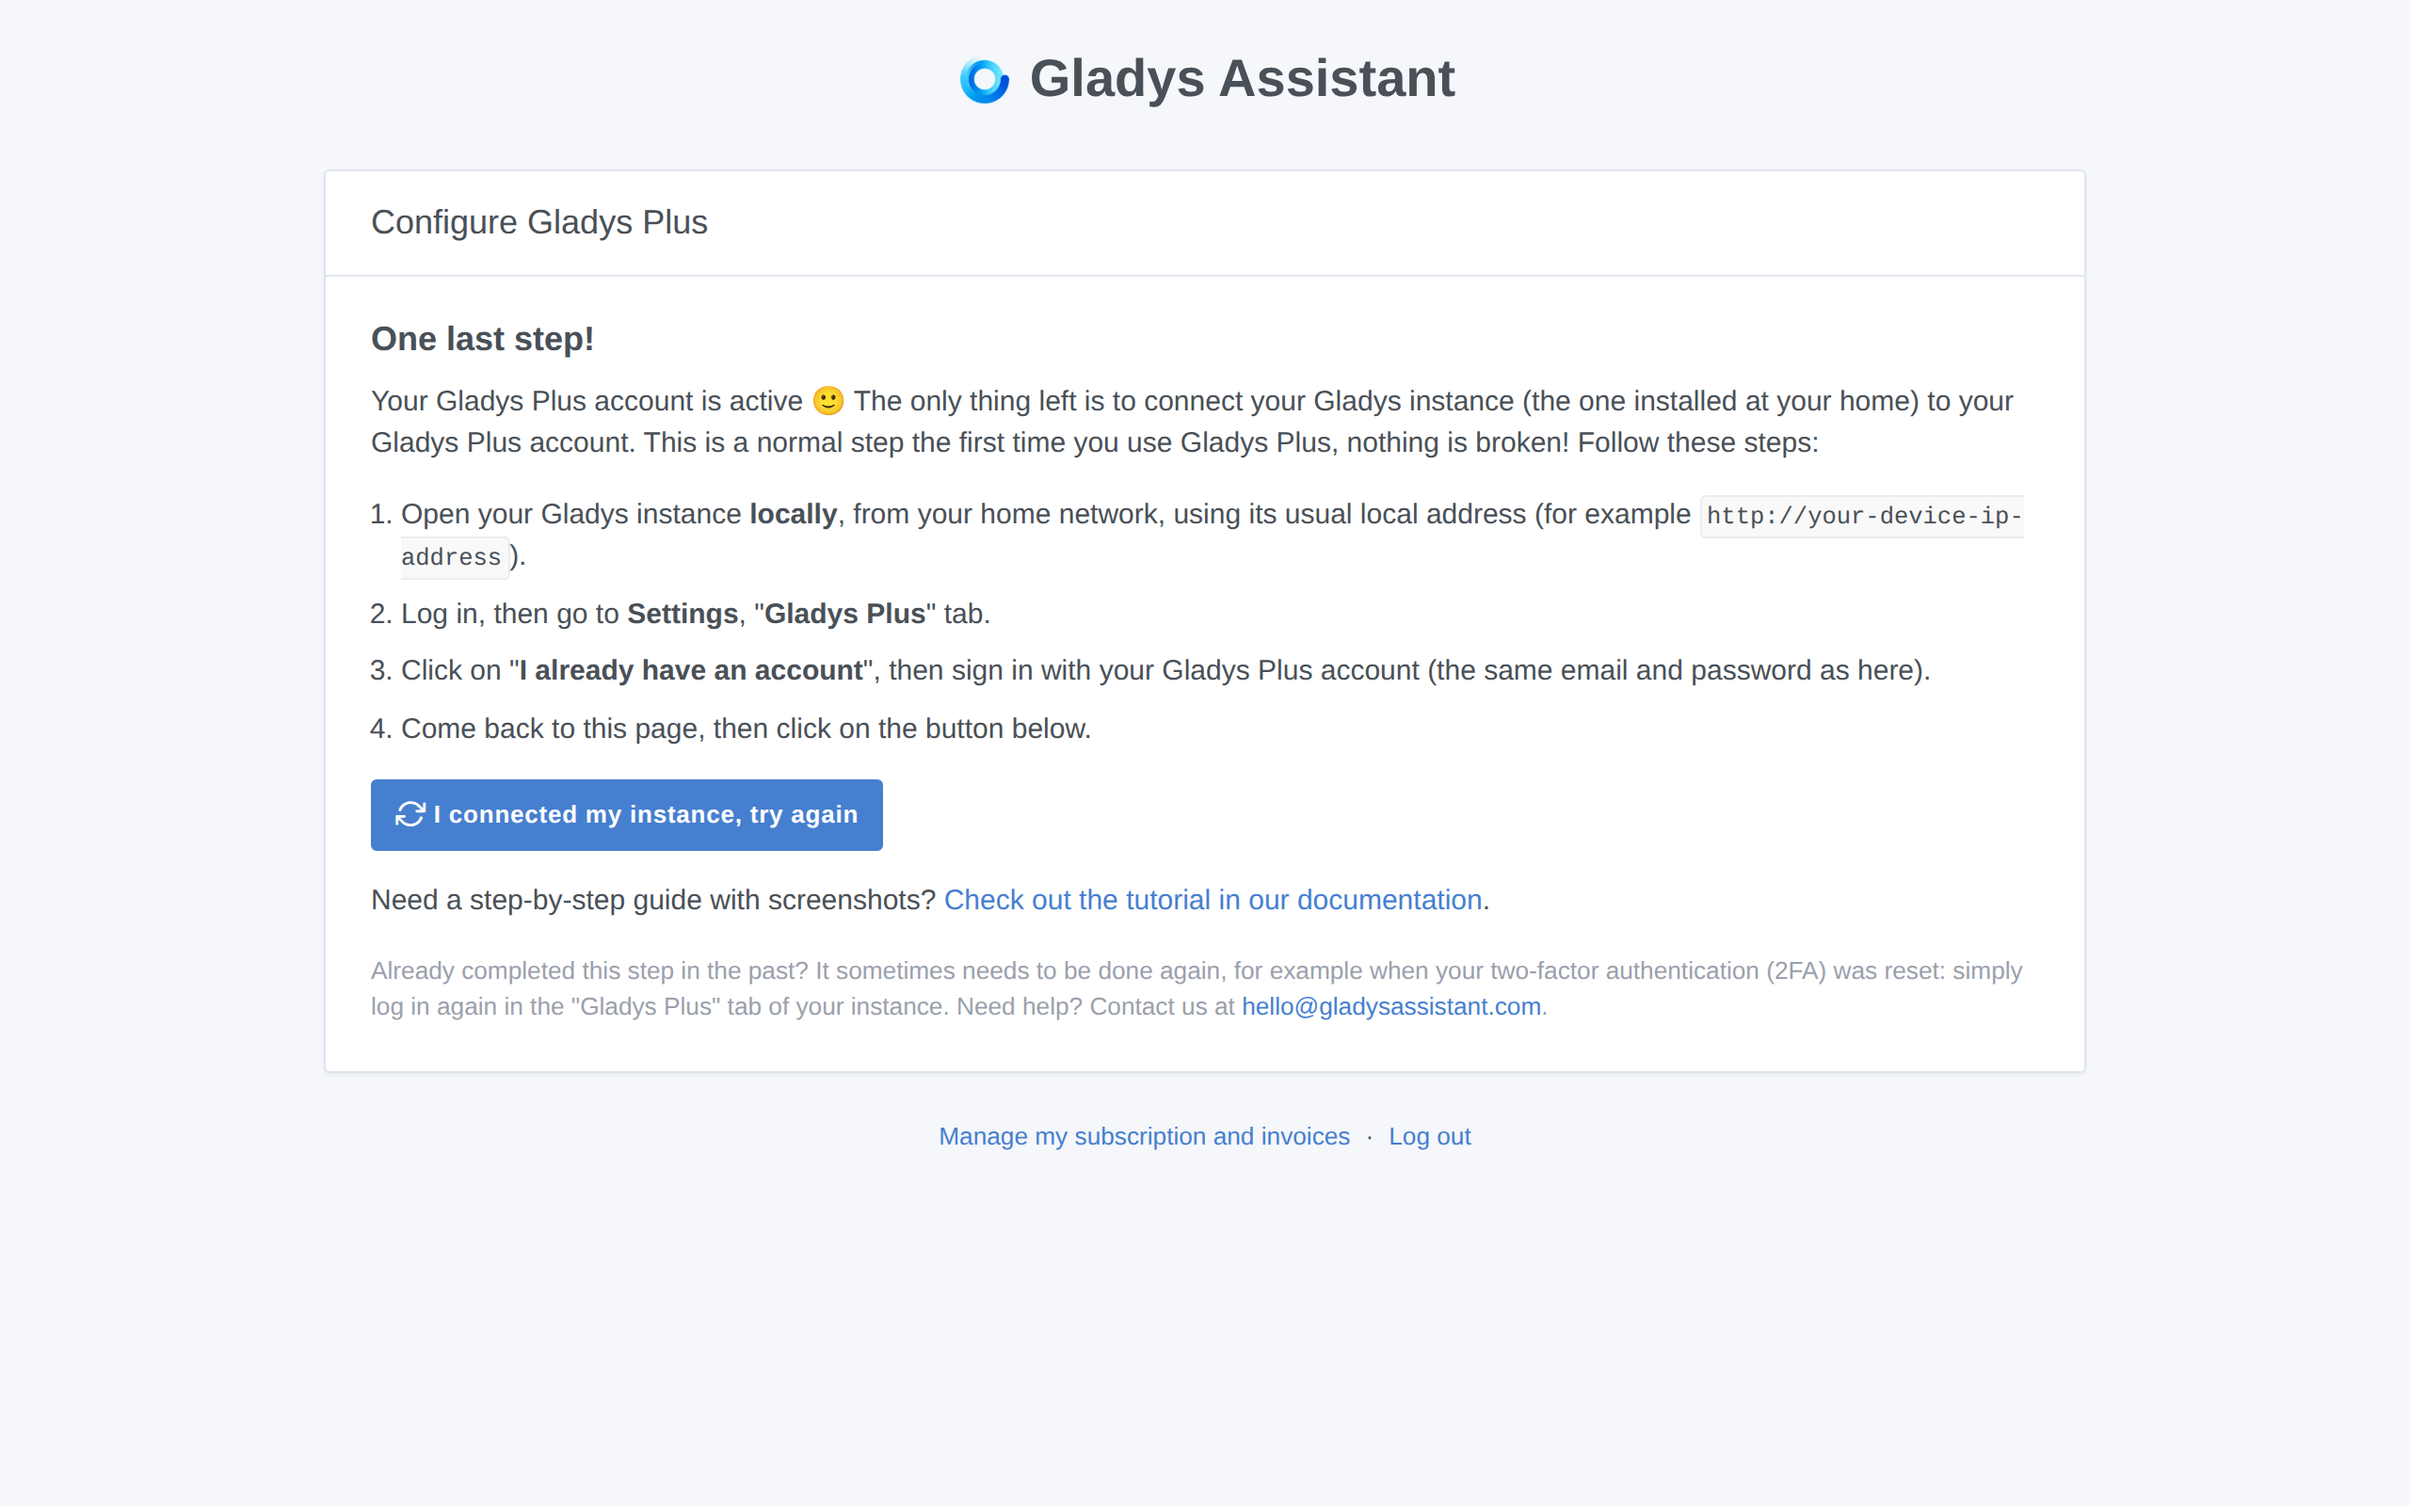
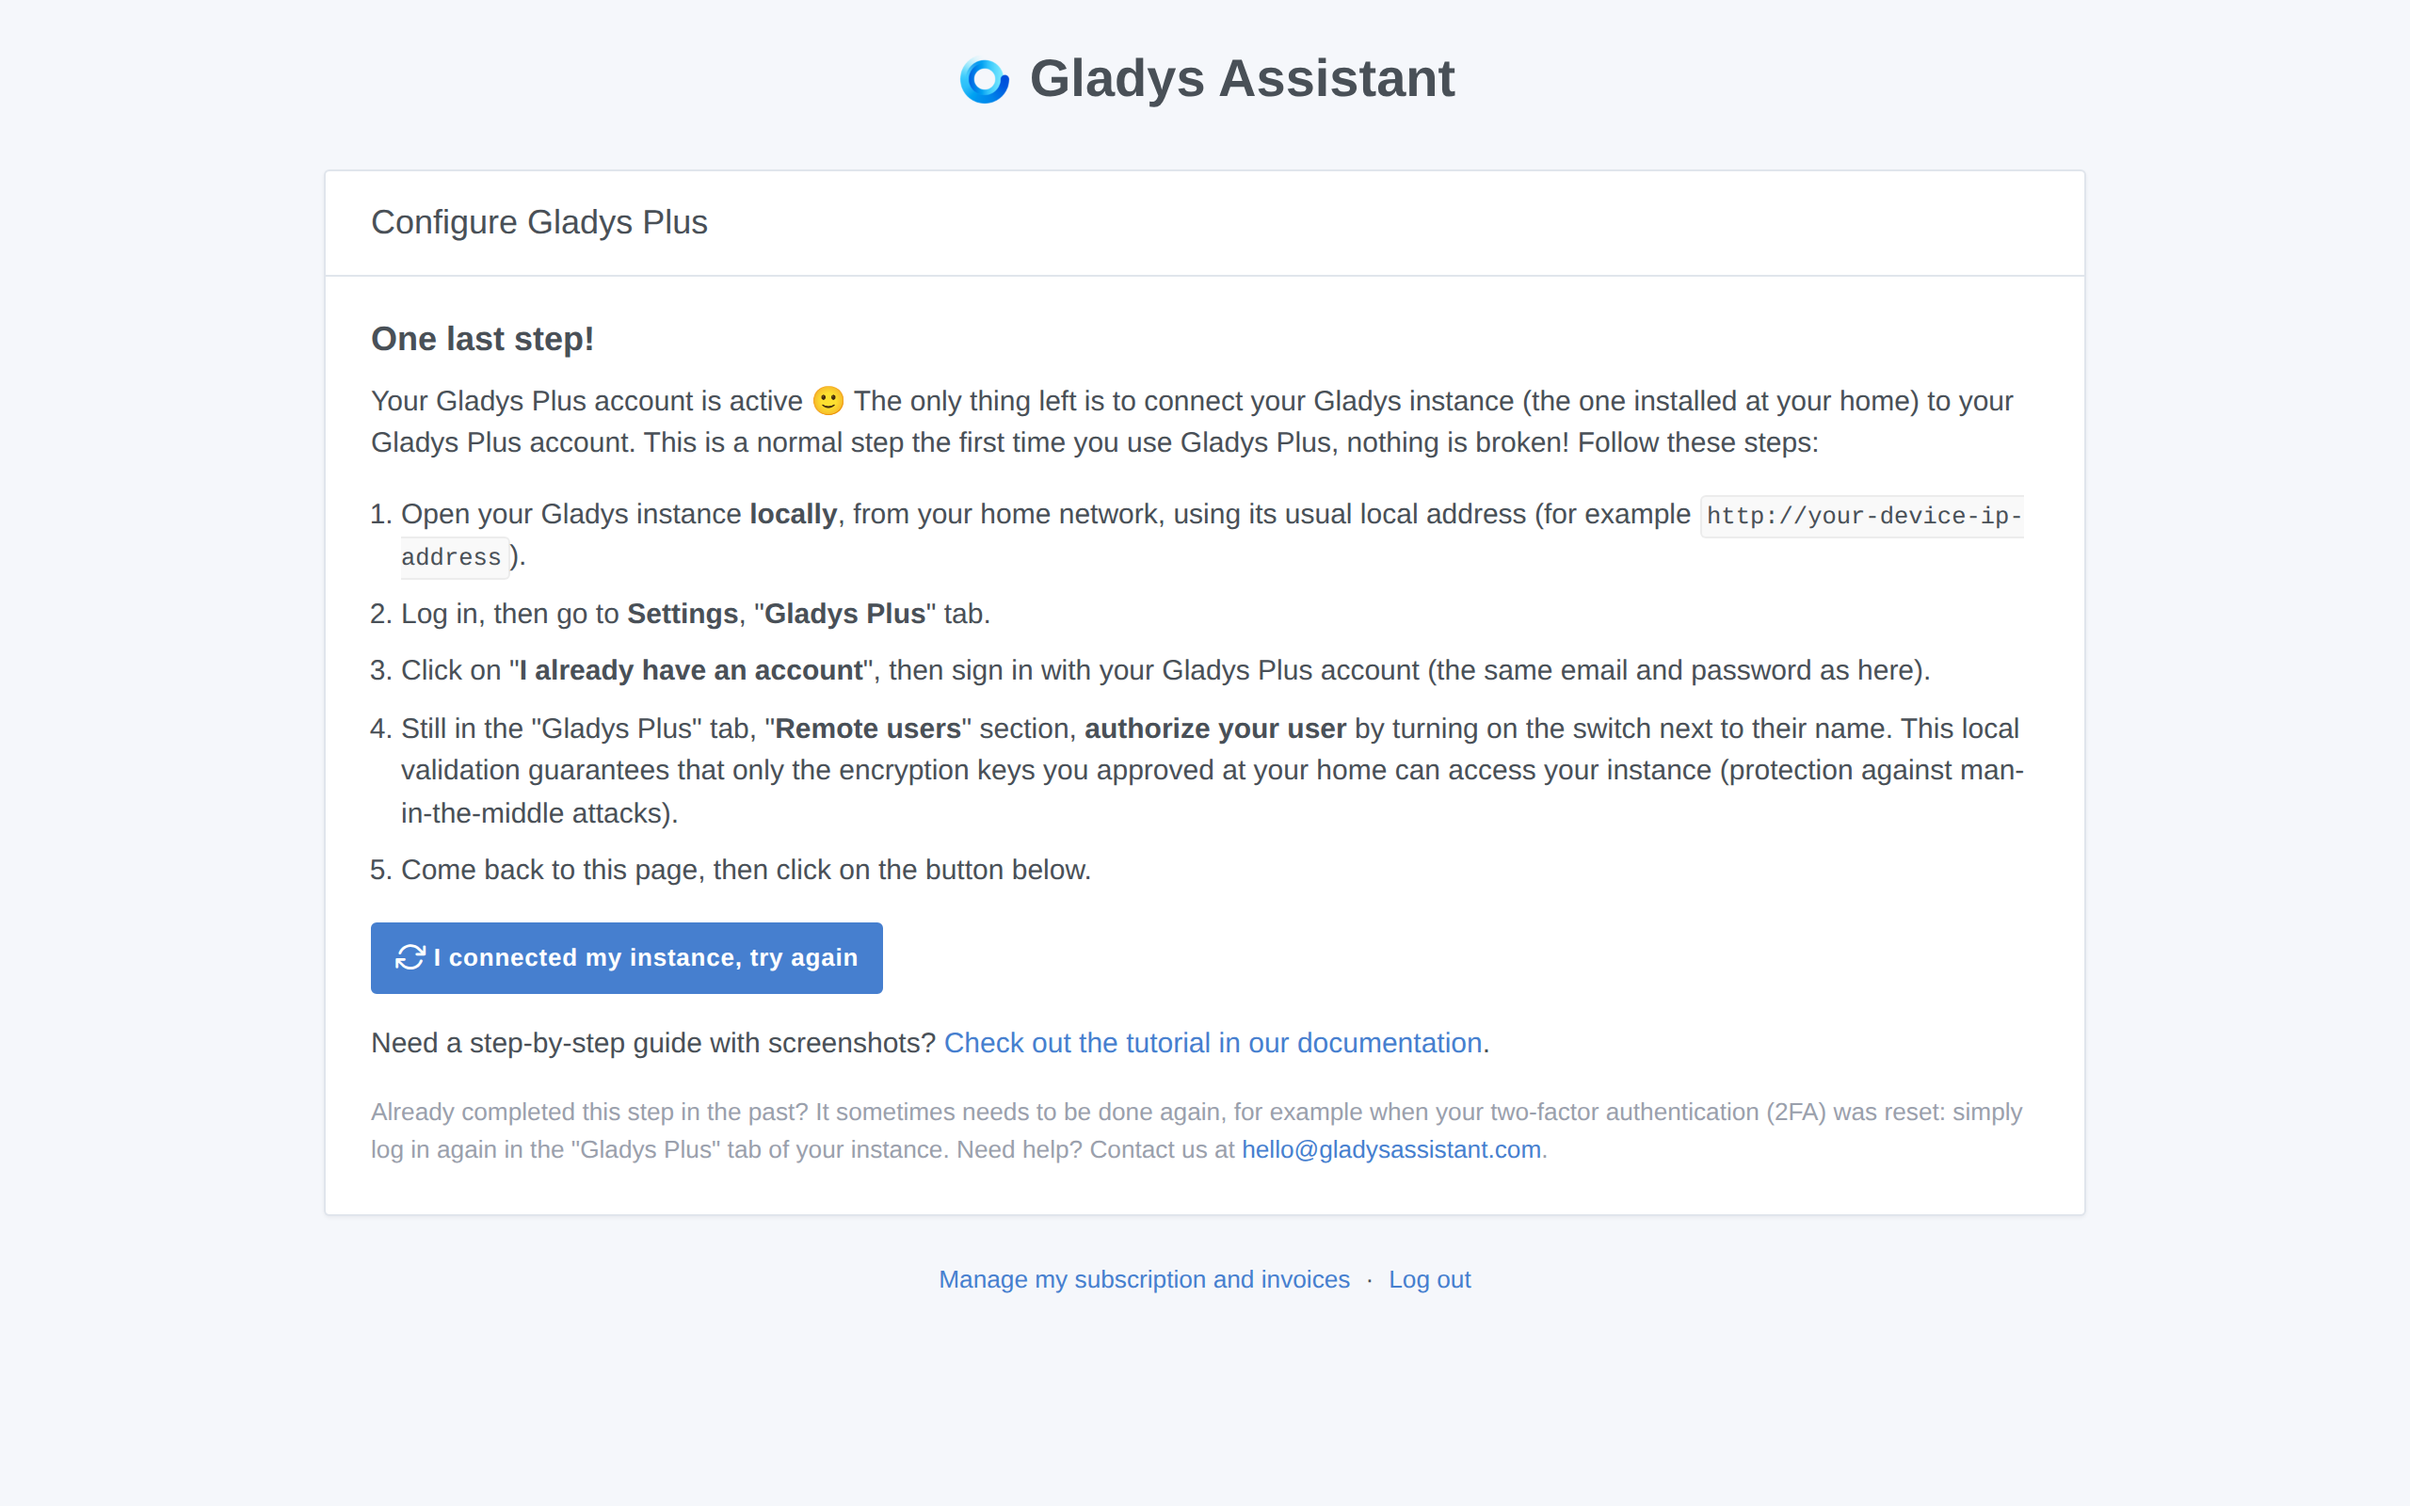
docs(plus): add the local user authorization step to the connection tutorial
Accepting the user locally in the "Remote users" section is a mandatory
step of the Gladys Plus onboarding, and it was missing from the
tutorial. This adds a dedicated step (English + French) with a
screenshot, explaining why it exists: authorizing a user validates their
encryption keys locally on the instance, which is what protects the home
against man-in-the-middle attacks, and why access is revoked when a
user's keys change (e.g. after a 2FA reset).

Also refreshes the "one last step" page screenshot (now 5 steps) and the
troubleshooting section accordingly.

Claude-Session: https://claude.ai/code/session_011WtqXq1vzw6GSwL1z5npFZ

Changed region(s): [[0.1562, 0.4688, 0.8438, 0.7812], [0.375, 0.8438, 0.5625, 0.875]]

diff --git a/i18n/fr/docusaurus-plugin-content-docs/current/plus/connect-gladys-plus.md b/i18n/fr/docusaurus-plugin-content-docs/current/plus/connect-gladys-plus.md
@@ -44,7 +44,17 @@ Entrez **l'e-mail et le mot de passe de votre compte Gladys Plus** (les mêmes i
 
 Si c'est votre première connexion, Gladys vous demandera de configurer la double authentification (2FA) pour sécuriser votre compte, puis affichera votre **clé de sauvegarde** : enregistrez cette clé en lieu sûr en dehors de Gladys (un gestionnaire de mots de passe par exemple), elle est nécessaire pour restaurer vos sauvegardes chiffrées.
 
-## Étape 5 : Retournez sur Gladys Plus
+## Étape 5 : Autorisez votre utilisateur localement
+
+Toujours dans l'onglet « Gladys Plus », descendez jusqu'à la section **« Utilisateurs distants »** : elle liste tous les utilisateurs de votre compte Gladys Plus. **Autorisez votre utilisateur en activant l'interrupteur en face de son nom.**
+
+![Autoriser un utilisateur distant localement](../../../../../static/img/docs/fr/plus/connect-gladys-plus/accept-user.png)
+
+**Pourquoi cette étape ?** Gladys Plus est chiffré de bout en bout : chaque utilisateur Gladys Plus possède ses propres clés de chiffrement, dont les empreintes sont affichées sous son nom. En autorisant un utilisateur ici, vous validez localement, sur votre instance, que ses clés sont acceptées. C'est cette validation locale qui protège votre maison des attaques « de l'homme du milieu » (man-in-the-middle) : personne, pas même les serveurs Gladys Plus, ne peut donner accès à votre instance sans cette validation faite chez vous.
+
+Pour la même raison, si les clés d'un utilisateur changent (par exemple lorsque sa double authentification est réinitialisée), son accès est automatiquement révoqué et devra être autorisé à nouveau ici.
+
+## Étape 6 : Retournez sur Gladys Plus
 
 Votre instance est maintenant connectée ! Retournez sur [plus.gladysassistant.com](https://plus.gladysassistant.com) et cliquez sur le bouton **« J'ai connecté mon instance, réessayer »** de la page « Plus qu'une étape ! ».
 
@@ -52,6 +62,6 @@ Il vous sera alors demandé de **sélectionner votre utilisateur Gladys** : choi
 
 ## En cas de problème
 
-- **La page « Plus qu'une étape ! » réapparaît alors que vous aviez déjà fait cette étape par le passé** : cela peut arriver lorsque votre double authentification (2FA) a été réinitialisée. Reconnectez-vous simplement dans l'onglet « Gladys Plus » de votre instance locale (étapes 1 à 4 ci-dessus).
-- **Erreur « L'utilisateur n'a pas été accepté localement »** : dans votre instance locale, allez dans les paramètres, onglet « Gladys Plus », section « Utilisateurs », et acceptez l'utilisateur.
+- **La page « Plus qu'une étape ! » réapparaît alors que vous aviez déjà fait cette étape par le passé** : cela peut arriver lorsque votre double authentification (2FA) a été réinitialisée. Reconnectez-vous simplement dans l'onglet « Gladys Plus » de votre instance locale (étapes 1 à 5 ci-dessus).
+- **Erreur « L'utilisateur n'a pas encore été autorisé localement »** : dans votre instance locale, allez dans les paramètres, onglet « Gladys Plus », section « Utilisateurs distants », et activez l'interrupteur en face de son nom (voir l'étape 5 ci-dessus).
 - **Besoin d'aide ?** Écrivez-nous à [hello@gladysassistant.com](mailto:hello@gladysassistant.com) ou posez votre question sur le [forum de la communauté](https://community.gladysassistant.com/).

diff --git a/docs/plus/connect-gladys-plus.md b/docs/plus/connect-gladys-plus.md
@@ -44,7 +44,17 @@ Enter the **email and password of your Gladys Plus account** (the same credentia
 
 If it's the first time you connect, Gladys will ask you to configure two-factor authentication (2FA) to secure your account, and will then display your **backup key**: save this key somewhere safe outside of Gladys (a password manager for example), it is needed to restore your encrypted backups.
 
-## Step 5: Go back to Gladys Plus
+## Step 5: Authorize your user locally
+
+Still in the "Gladys Plus" tab, scroll down to the **"Remote users"** section: it lists all the users of your Gladys Plus account. **Authorize your user by turning on the switch next to their name.**
+
+![Authorize a remote user locally](../../static/img/docs/en/plus/connect-gladys-plus/accept-user.png)
+
+**Why this step?** Gladys Plus is end-to-end encrypted: each Gladys Plus user has their own encryption keys, whose fingerprints are displayed under their name. By authorizing a user here, you validate locally, on your instance, that their keys are accepted. This local validation is what protects your home against man-in-the-middle attacks: nobody, not even the Gladys Plus servers, can grant access to your instance without this validation done at your home.
+
+For the same reason, if a user's keys change (for example when their two-factor authentication is reset), their access is automatically revoked and needs to be authorized again here.
+
+## Step 6: Go back to Gladys Plus
 
 Your instance is now connected! Go back to [plus.gladysassistant.com](https://plus.gladysassistant.com) and click on the **"I connected my instance, try again"** button on the "One last step!" page.
 
@@ -52,6 +62,6 @@ You will then be asked to **select your Gladys user**: choose the local user you
 
 ## Troubleshooting
 
-- **The "One last step!" page comes back even though you already completed this step in the past**: this can happen when your two-factor authentication (2FA) was reset. Simply log in again in the "Gladys Plus" tab of your local instance (steps 1 to 4 above).
-- **"The user was not accepted locally" error**: in your local instance, go to the settings, "Gladys Plus" tab, "Users" section, and accept the user.
+- **The "One last step!" page comes back even though you already completed this step in the past**: this can happen when your two-factor authentication (2FA) was reset. Simply log in again in the "Gladys Plus" tab of your local instance (steps 1 to 5 above).
+- **"The user has not been authorized locally" error**: in your local instance, go to the settings, "Gladys Plus" tab, "Remote users" section, and turn on the switch next to the user's name (see step 5 above).
 - **Need help?** Contact us at [hello@gladysassistant.com](mailto:hello@gladysassistant.com) or ask on the [community forum](https://community.gladysassistant.com/).
